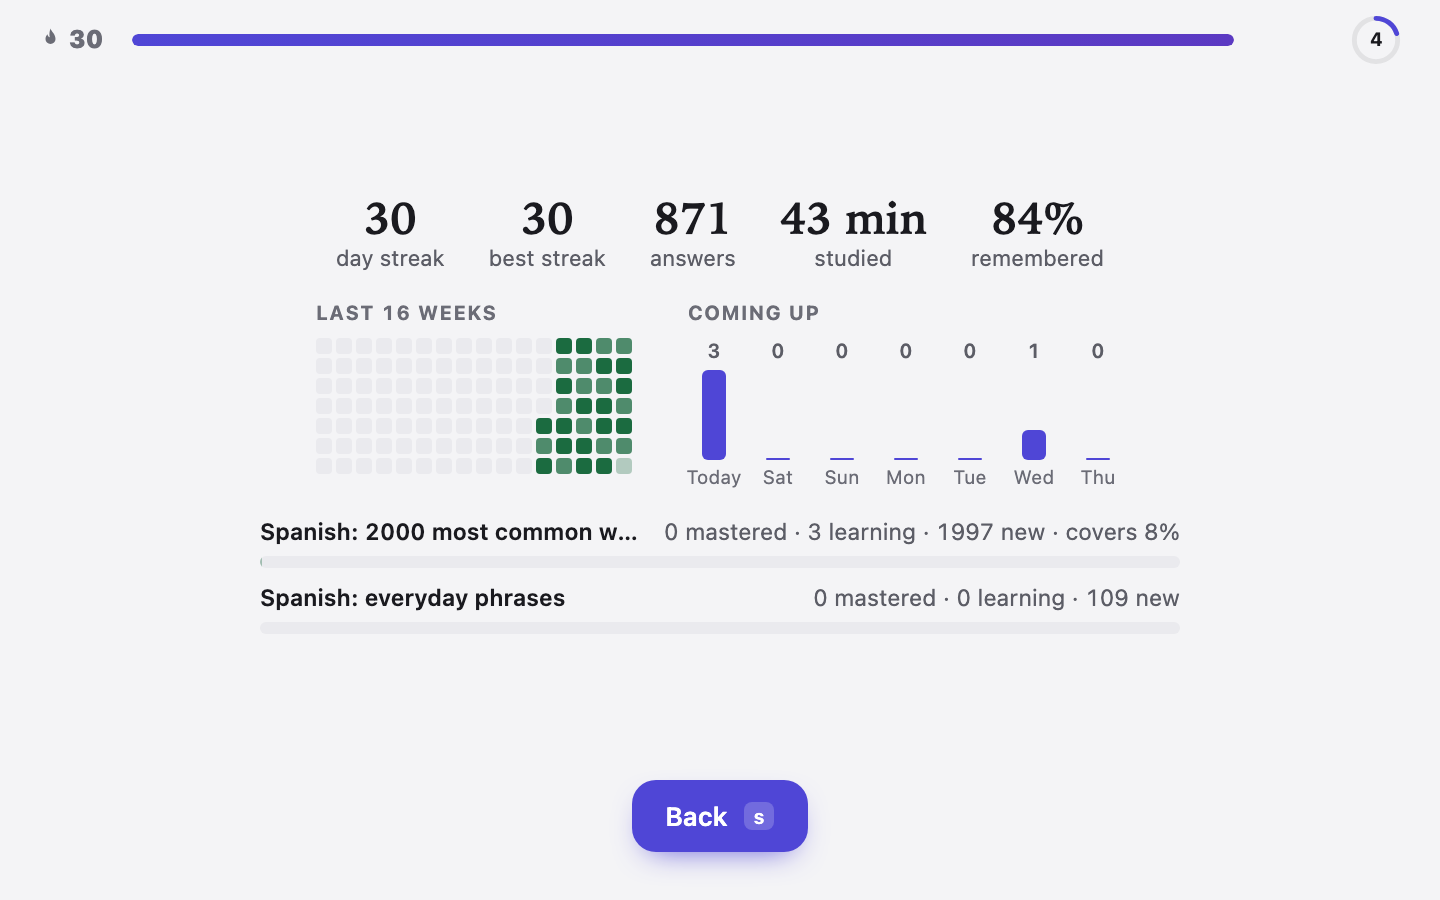
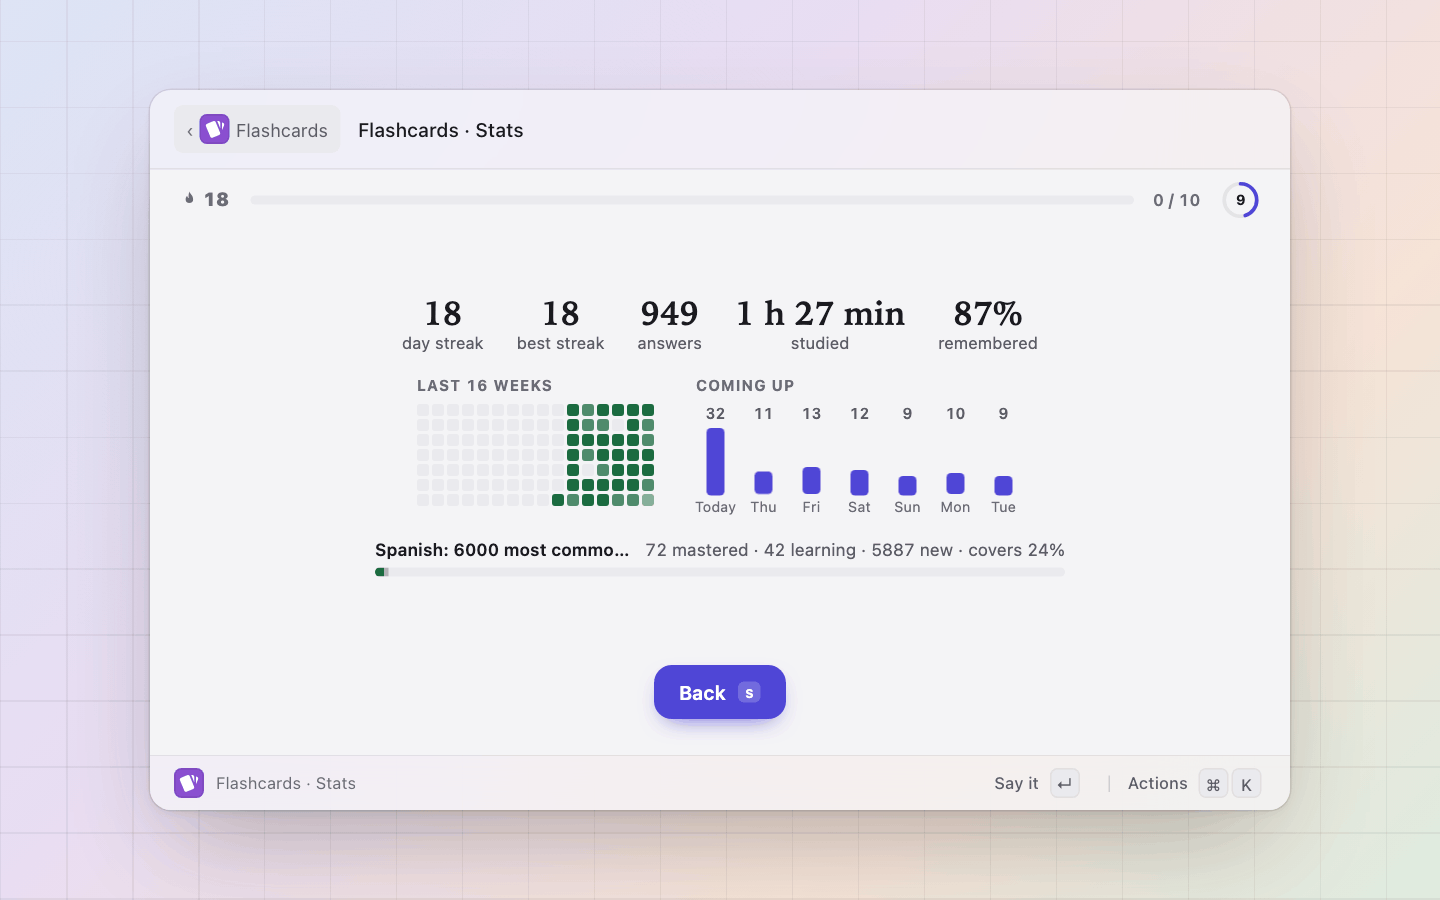
screenshots: sudoku, crossword and flashcards from their own code (replies recorded through the harness, histories played through the games' own rules), typing's timed test and result back from the seeded word list; the six earlier games re-rendered on the pinned clock with seeded confetti and blast

diff --git a/flashcards/fixture.ts b/flashcards/fixture.ts
@@ -1,0 +1,103 @@
+// Writes app/src/gallery/shots/flashcards.json: the store screenshots'
+// fixture. The page keeps nothing: every screen is the extension's answer to
+// `pal.send`, so the fixture runs the extension in the host harness over a
+// data directory of its own (`PAL_FLASHCARDS_DIR`, a fixed one under /tmp) and
+// records its replies. The data is six weeks of study of the bundled
+// Spanish words, played out by srs.ts itself: each evening the day's queue
+// answered (most right, a seeded few missed) until the goal, a streak to
+// yesterday, then today's first answers until the card on top is the one a
+// shot wants: a noun with its example, a production card whose answer has an
+// accent, and the card that meets today's goal. A fourth directory has no
+// pack in rotation yet (the first run). The voice is named in the settings,
+// so the stats never ask this machine's `say` for its voices.
+// `make shots EXT=flashcards`.
+import { mkdirSync, readFileSync, rmSync, writeFileSync } from "node:fs";
+import { join } from "node:path";
+import { Host } from "../../host/test/harness.ts";
+import { NOW, pinClock, seeded, writeFixture } from "../../app/scripts/fixture-kit.ts";
+import { parsePack } from "./packs.ts";
+import { DAY, answer, items, queue, stats, type Item } from "./srs.ts";
+import type { Data } from "./store.ts";
+import manifest from "./pal.json" with { type: "json" };
+
+pinClock();
+const SETTINGS = { new_per_day: 15, session: 10, goal: 20, retention: "0.9", typing: "reverse", speak: "key", voice: "Mónica", buttons: "two", sounds: true, suggest: true };
+const S = { newPerDay: 15, goal: 20, retention: 0.9 };
+const pack = parsePack("spanish-words.json", readFileSync(new URL("./packs/spanish-words.json", import.meta.url), "utf8"));
+const all = items([pack]);
+const r = seeded(11);
+
+/** One answer to the card on top at `at`: right most of the time (a new card a little less), logged as the extension logs it. */
+function study(d: Data, at: number, it = queue(all, d, at, S).next): Item | null {
+  if (!it) return null;
+  const m = d.cards[it.key];
+  const rate = r() < (m ? 0.88 : 0.8) ? 3 : 1;
+  d.cards[it.key] = answer(m, rate, at, S.retention);
+  d.log.push([Math.round(at / 1000), it.key, rate, m?.st ?? 0, Math.round(2500 + r() * 6000)]);
+  return it;
+}
+
+// Six weeks back to yesterday: an evening's session to the goal and a few past it; two days missed early on, then a streak.
+const data: Data = { v: 1, cards: {}, log: [], suspended: [], active: ["spanish-words"] };
+for (let back = 42; back >= 1; back--) {
+  if (back === 30 || back === 19) continue;
+  let at = new Date(NOW - back * DAY).setHours(20, 10, 0, 0);
+  const n = 20 + Math.floor(r() * 9);
+  for (let k = 0; k < n && study(data, at); k++) at += 9_000 + Math.floor(r() * 7_000);
+}
+/** Today's answers, the card on top now answered each time, until `ok` says it is the shot's (or `max` answers in); the answers a few seconds apart up to a moment ago. */
+function today(d: Data, ok: (it: Item, answered: number) => boolean, max = 19): Data {
+  const out = structuredClone(d);
+  for (let k = 0; k <= max; k++) {
+    const top = queue(all, out, NOW, S).next!;
+    if (ok(top, stats(out, all, NOW, S.goal).todayAnswers)) return out;
+    study(out, NOW - (max + 1 - k) * 12_000, top);
+  }
+  throw new Error("flashcards: today never brought the shot's card");
+}
+const noun = (it: Item) => !it.reverse && /^noun/.test(it.card.note ?? "") && !!it.card.example;
+const card = today(data, (it, n) => n >= 6 && noun(it));
+const typed = today(data, (it, n) => n >= 4 && it.reverse && /[áéíóú]/.test(it.card.front) && !/ /.test(it.card.front));
+const goal = today(data, (_it, n) => n === 19);
+
+/** The extension over `d`: its replies to the page's opening call and to `asks`, recorded. */
+async function replies(d: Data, asks: Record<string, unknown>[] = []) {
+  // One fixed place (the first-run screen's reply names its packs folder), emptied each time.
+  const dir = "/tmp/pal-flashcards-fixture";
+  rmSync(dir, { recursive: true, force: true });
+  mkdirSync(dir, { recursive: true });
+  writeFileSync(join(dir, "progress.json"), JSON.stringify(d));
+  process.env.PAL_FLASHCARDS_DIR = dir;
+  const host = await Host.bundled({ settings: { flashcards: { settings: SETTINGS } } });
+  try {
+    const send = [];
+    for (const msg of [{ op: "open" }, ...asks]) send.push({ msg, reply: await host.surfaceSend("flashcards", "flashcards", msg) });
+    return { send, view: await host.request("view", { extension: "flashcards", palette: "flashcards" }) };
+  } finally {
+    host.kill();
+    rmSync(dir, { recursive: true, force: true });
+  }
+}
+const topOf = (d: Data) => queue(all, d, NOW, S).next!;
+
+const a = await replies(card, [{ op: "stats" }]);
+const b = await replies(typed);
+// The goal's answer is matched on the card and the rating: the page's `ms` is its own.
+const c = await replies(goal, [{ op: "answer", key: topOf(goal).key, rating: 3 }]);
+const w = await replies({ ...data, active: null });
+const palette = (x: typeof a) => ({ title: manifest.title, icon: manifest.icon, view: "view", tree: x.view, surface: { storage: {}, settings: SETTINGS, send: x.send } });
+// The production card's answer typed without its accent: the page counts it and shows where.
+const bare = topOf(typed).card.front.normalize("NFD").replace(/[̀-ͯ]/g, "");
+// The goal's card turned over as it asks: a production card typed (right), a recognition card flipped.
+const g = topOf(goal), turn = g.reverse ? [`type:${g.card.front}`, "wait:200", "enter"] : ["space"];
+writeFixture("flashcards", {
+  palettes: { card: palette(a), typed: palette(b), goal: palette(c), welcome: palette(w) },
+  shots: {
+    "1-card": { palette: "card", keys: ["wait:1500", "space", "wait:900"], caption: "A card turned over: the meaning, an example with the word marked, the article coloured by gender, and when each answer brings it back" },
+    "2-typed": { palette: "typed", keys: ["wait:1500", `type:${bare}`, "wait:200", "enter", "wait:900"], caption: "The other way, typed: an accent left off counts, and shows where" },
+    "3-goal": { palette: "goal", keys: ["wait:1500", ...turn, "wait:600", "right", "wait:1600"], caption: "The day's twentieth card: the goal met, the streak goes on" },
+    "4-stats": { palette: "card", keys: ["wait:1500", "type:s", "wait:1200"], caption: "Stats: the streak, the heatmap, the week ahead, each pack" },
+    "5-welcome": { palette: "welcome", keys: ["wait:1500"], caption: "The first run: pick the packs to practise, or bring your own" },
+  },
+});
+console.log(`flashcards: card ${topOf(card).key}, typed ${topOf(typed).key} as "${bare}", goal ${topOf(goal).key}, ${data.log.length} answers before today`);
